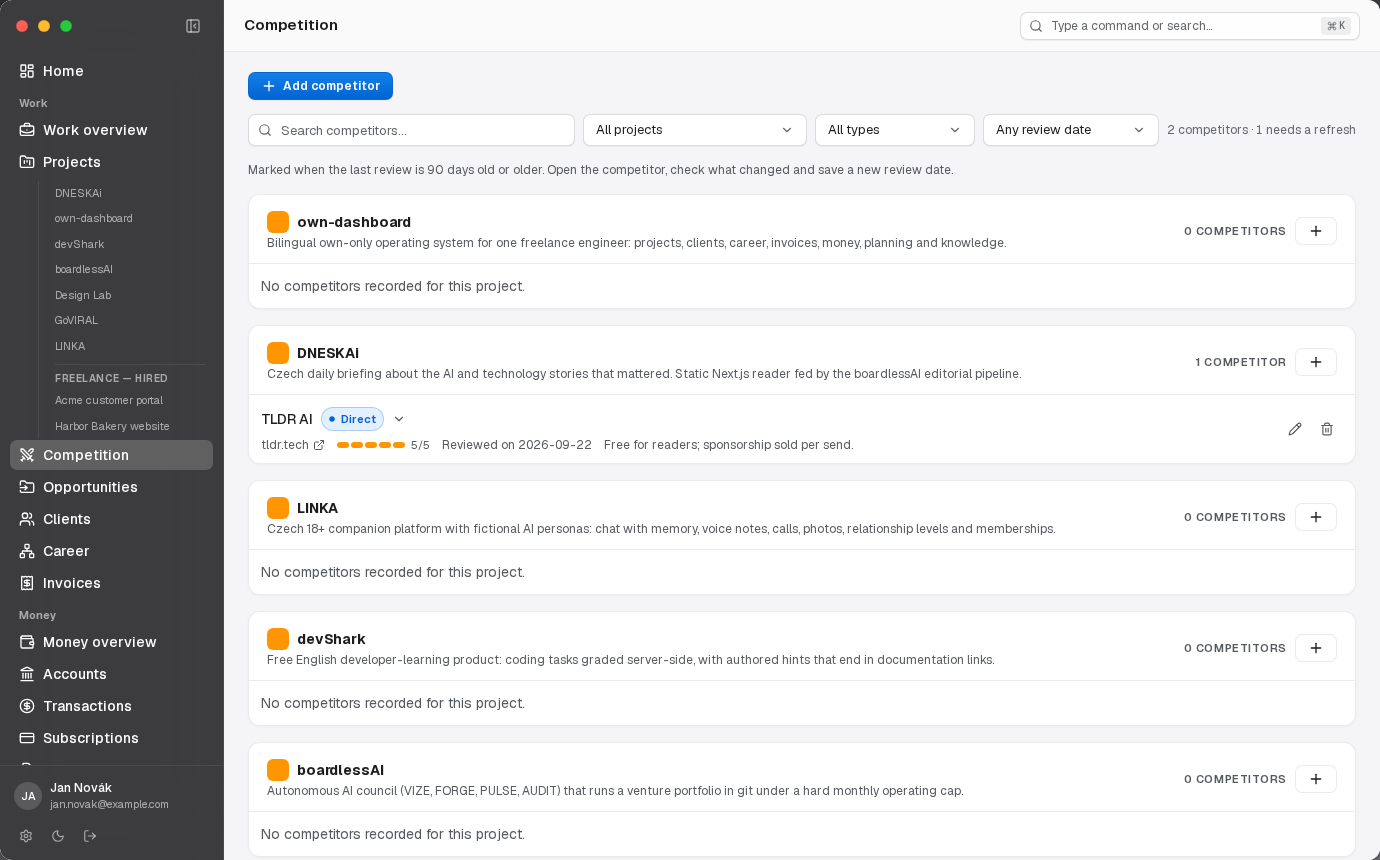
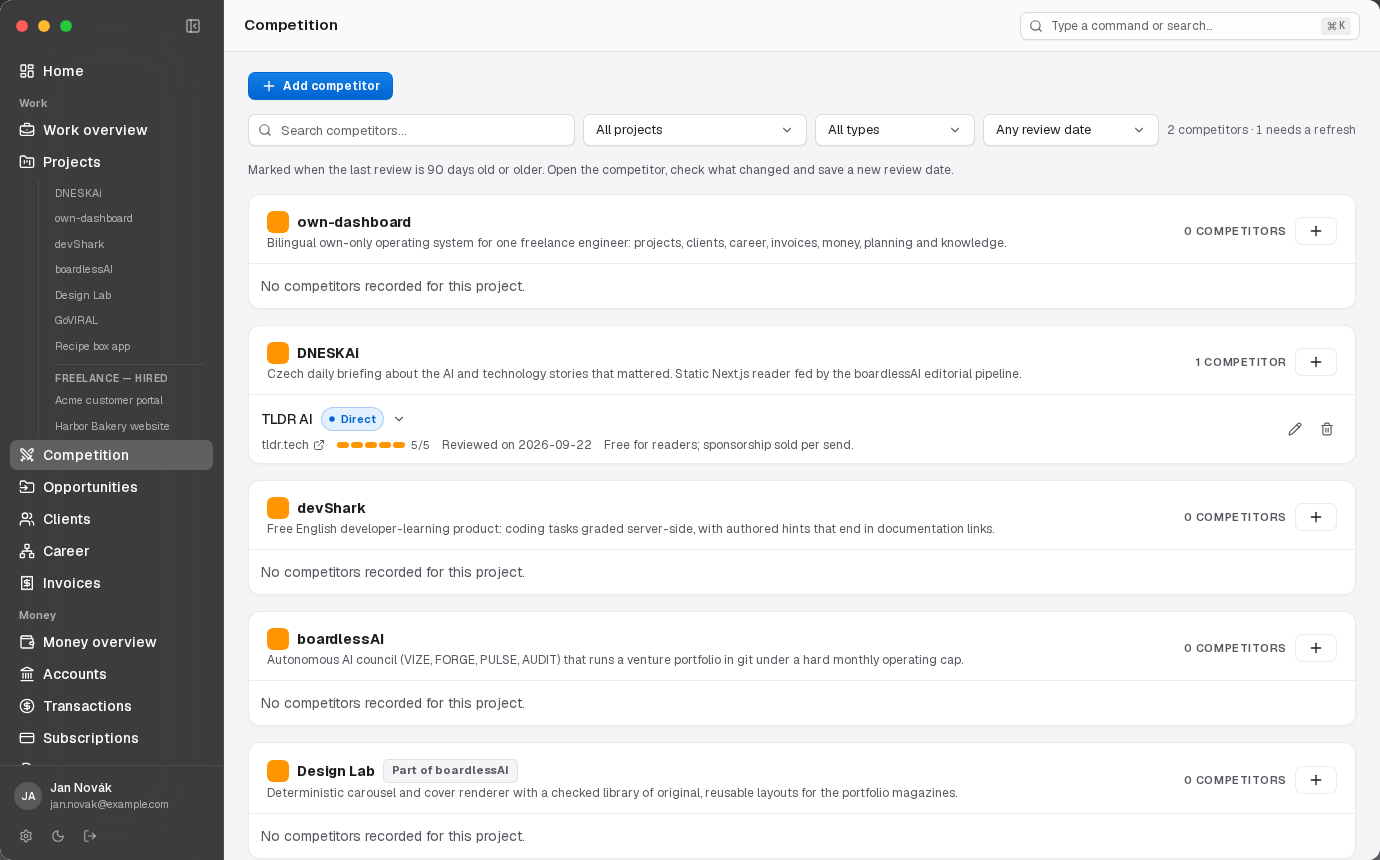
#86: Keep the private LINKA project out of the public tour
The merge added a LINKA fixture carrying the private repository
lukaskourilcz/phone-app and its registry key. /guest (indexed) and
/dev-preview show fixture projects with a registry summary fallback, so
any visitor saw the private repository's name, a link to it, and the
description of an unannounced product. All four changelog captures showed
LINKA in the sidebar, and the Competition capture showed the description.

- The fixture is now "Recipe box app", an invented own project with no
  registry key and no repository. Every fixture project carries its own
  invented summary.
- projectSummary() prefers the project's own summary and, in the
  preview, never falls back to the registry. Projects and the project
  workspace use it.
- portfolio.ts keeps the LINKA entry, which binds the live project row,
  but its description is now "Private product in development." The
  owner's projects.summary row still holds the real text and wins.
  NEEDED.md asks whether the name and repository may stay in source.
- The four captures were retaken from /dev-preview
  (CHANGELOG_CAPTURE=1, desktop) and the projects alt text updated in
  changelog.ts and CHANGELOG.md.
- The guest page and fixture comments say what is invented and what is
  real.

The old description remains in the history of claude/elegant-cori-h9cdgb,
which is already on origin, and in this branch's merge commit.

Claude-Session: https://claude.ai/code/session_01JhZhF9uAeUtFEQkvY3LE2b

diff --git a/src/components/projects/project-workspace.tsx b/src/components/projects/project-workspace.tsx
@@ -31,7 +31,7 @@ import { EntityBadge, StatusBadge } from "@/components/ui/status-badge";
 import { useDict, useLang } from "@/lib/i18n";
 import { convert } from "@/lib/fx";
 import { projectSubscriptionShares, sharesMonthly } from "@/lib/dev-finance";
-import { childProjects, portfolioEntryFor } from "@/lib/portfolio";
+import { childProjects, portfolioEntryFor, projectSummary } from "@/lib/portfolio";
 import { computeTotals } from "@/lib/invoices";
 import { assessProjectHealth } from "@/lib/project-health";
 import { taskBelongsToProject } from "@/lib/project-match";
@@ -105,6 +105,8 @@ type Props = {
   displayCurrency: string;
   repositoryIntegrationEnabled: boolean;
   onBackToProjects: () => void;
+  /** The public tour: registry descriptions are not shown there. */
+  isPreview?: boolean;
 };
 
 function invoiceTotal(invoice: Invoice, items: InvoiceItem[]): number {
@@ -194,7 +196,7 @@ export function ProjectWorkspace(props: Props) {
     <PageHeader
       className="mac-project-header"
       title={project.name}
-      description={project.summary || registryEntry?.summary[lang] || p.projectWorkspace}
+      description={projectSummary(project, lang, { preview: props.isPreview }) || p.projectWorkspace}
       eyebrow={parentProject ? t.portfolio.subsectionOf(parentProject.name) : organization?.name ?? (registryEntry ? t.portfolio.coreProject : p.projectWorkspace)}
       action={<div className="flex flex-wrap items-center gap-2"><StatusBadge value={project.status ?? (project.is_active ? "active" : "archived")} />{project.dev_url && <Button size="sm" variant="outline" asChild><a href={project.dev_url} target="_blank" rel="noreferrer"><ExternalLink />{p.developmentProject}</a></Button>}{project.url && <Button size="sm" variant="outline" asChild><a href={project.url} target="_blank" rel="noreferrer"><ExternalLink />{p.externalProject}</a></Button>}</div>}
     />
@@ -213,7 +215,7 @@ export function ProjectWorkspace(props: Props) {
         <Card><CardHeader><CardTitle>{p.projectSummary}</CardTitle></CardHeader><CardContent className="space-y-3 text-sm"><p>{project.summary || project.notes || p.noRelatedRecords}</p><div><SectionLabel>{p.linkedOrganization}</SectionLabel><p className="mt-1">{organization ? <EntityBadge>{organization.name}</EntityBadge> : p.noLinkedOrganization}</p></div>{projectDates.length > 0 && <div><SectionLabel>{t.nav.sections.dates}</SectionLabel><ul className="mt-1 divide-y divide-border">{projectDates.slice(0, 5).map((date) => <li key={date.id} className="flex justify-between gap-3 py-1.5"><span>{date.title}</span><span className="tabular text-foreground-muted">{date.the_date}</span></li>)}</ul></div>}</CardContent></Card>
         <Card><CardHeader><CardTitle>{p.attention}</CardTitle></CardHeader><CardContent>{health.reasons.length === 0 ? <p className="text-sm text-foreground-muted">{p.attentionEmpty}</p> : <ul className="space-y-2 text-sm">{health.reasons.map((reason) => <li key={reason} className="rounded-md border border-border p-2">{localHealthReason(reason)}</li>)}</ul>}</CardContent></Card>
         {project.repo_full_name && <ProjectTraffic repoFullName={project.repo_full_name} repoId={project.repo_id ?? null} />}
-        {subsections.length > 0 && <Card><CardHeader><CardTitle>{t.portfolio.subsection}</CardTitle></CardHeader><CardContent><ul className="divide-y divide-border">{subsections.map((child) => <li key={child.id} className="flex items-center justify-between gap-3 py-2"><button type="button" onClick={() => props.onOpenProject(child)} className="focus-ring rounded text-sm font-medium hover:underline">{child.name}</button><span className="text-xs text-foreground-muted">{portfolioEntryFor(child)?.summary[lang]}</span></li>)}</ul></CardContent></Card>}
+        {subsections.length > 0 && <Card><CardHeader><CardTitle>{t.portfolio.subsection}</CardTitle></CardHeader><CardContent><ul className="divide-y divide-border">{subsections.map((child) => <li key={child.id} className="flex items-center justify-between gap-3 py-2"><button type="button" onClick={() => props.onOpenProject(child)} className="focus-ring rounded text-sm font-medium hover:underline">{child.name}</button><span className="text-xs text-foreground-muted">{projectSummary(child, lang, { preview: props.isPreview })}</span></li>)}</ul></CardContent></Card>}
       </div>
       <ProjectLinksSection project={project} aiLinks={props.aiLinks} aiCategories={props.aiCategories} projectLinks={props.projectLinks} setProjectLinks={props.setProjectLinks} />
     </div>}

diff --git a/src/lib/demo/fixtures.ts b/src/lib/demo/fixtures.ts
@@ -7,8 +7,11 @@
  * Every person, company, address and bank detail here is invented: "Jan Novák"
  * and `example.com` are placeholders, "Acme s.r.o." is a stand-in client, and
  * the IBAN is the documentation example value. The repository names are public
- * GitHub repositories. Nothing in this file is owner data, which is what makes
- * `/guest` safe to serve publicly — keep it that way when editing.
+ * GitHub repositories; a private repository, or the registry entry of a
+ * product the owner has not announced, never belongs here. Each project
+ * carries its own invented summary because the preview does not fall back to
+ * the portfolio registry. Nothing in this file is owner data, which is what
+ * makes `/guest` safe to serve publicly — keep it that way when editing.
  */
 import type {
   Account,
@@ -185,6 +188,7 @@ export const projects: Project[] = [
     id: "proj-dneskai",
     user_id: "u1",
     name: "DNESKAi",
+    summary: "Daily reader for the AI and technology news that mattered.",
     slug: "dneskai",
     previous_slugs: ["aifirst"],
     repo_full_name: "lukaskourilcz/aifirst",
@@ -204,6 +208,7 @@ export const projects: Project[] = [
     id: "proj-dashboard",
     user_id: "u1",
     name: "own-dashboard",
+    summary: "The operating dashboard this tour shows.",
     slug: "own-dashboard",
     repo_full_name: "lukaskourilcz/own-dashboard",
     repo_id: 1001,
@@ -222,6 +227,7 @@ export const projects: Project[] = [
     id: "proj-devshark",
     user_id: "u1",
     name: "devShark",
+    summary: "Developer-learning product with coding tasks graded on the server.",
     slug: "devshark",
     previous_slugs: ["react-express-app"],
     repo_full_name: "lukaskourilcz/react-express-app",
@@ -241,6 +247,7 @@ export const projects: Project[] = [
     id: "proj-boardlessai",
     user_id: "u1",
     name: "boardlessAI",
+    summary: "Agent council that runs a small venture portfolio in git.",
     slug: "boardlessai",
     previous_slugs: ["quorum"],
     repo_full_name: "lukaskourilcz/quorum",
@@ -261,6 +268,7 @@ export const projects: Project[] = [
     id: "proj-design-lab",
     user_id: "u1",
     name: "Design Lab",
+    summary: "Layout renderer for the portfolio magazines' carousels and covers.",
     slug: "design-lab",
     repo_full_name: null,
     engagement: "own",
@@ -278,6 +286,7 @@ export const projects: Project[] = [
     id: "proj-goviral",
     user_id: "u1",
     name: "GoVIRAL",
+    summary: "Weekly trend brief for the portfolio's ventures.",
     slug: "goviral",
     repo_full_name: null,
     engagement: "own",
@@ -291,14 +300,16 @@ export const projects: Project[] = [
     created_at: "2025-01-01T00:00:00Z",
     updated_at: "2025-01-01T00:00:00Z",
   },
+  // An invented own product with no registry key and no repository: the
+  // public tour shows no project the owner has not published.
   {
-    id: "proj-phone",
+    id: "proj-recipe-box",
     user_id: "u1",
-    name: "LINKA",
-    slug: "phone-app",
-    repo_full_name: "lukaskourilcz/phone-app",
+    name: "Recipe box app",
+    slug: "recipe-box",
+    repo_full_name: null,
     engagement: "own",
-    portfolio_key: "phone-app",
+    summary: "Offline recipe collection with weekly shopping lists.",
     url: null,
     notes: "",
     color: null,
@@ -312,6 +323,7 @@ export const projects: Project[] = [
     id: "proj-acme-portal",
     user_id: "u1",
     name: "Acme customer portal",
+    summary: "Customer portal for Acme's service team.",
     slug: "acme-portal",
     repo_full_name: null,
     engagement: "client",
@@ -328,6 +340,7 @@ export const projects: Project[] = [
     id: "proj-harbor-bakery",
     user_id: "u1",
     name: "Harbor Bakery website",
+    summary: "Ordering website for a neighbourhood bakery.",
     slug: "harbor-bakery",
     repo_full_name: null,
     engagement: "client",

diff --git a/src/lib/portfolio.ts b/src/lib/portfolio.ts
@@ -64,9 +64,13 @@ export const PORTFOLIO: PortfolioEntry[] = [
     repo: "lukaskourilcz/phone-app",
     category: "products",
     slug: "phone-app",
+    // The repository is private and the product unannounced, so its
+    // description lives only in the owner's own `projects.summary` row, not in
+    // this public source file. NEEDED.md asks the owner whether the entry may
+    // stay here at all.
     summary: {
-      en: "Czech 18+ companion platform with fictional AI personas: chat with memory, voice notes, calls, photos, relationship levels and memberships.",
-      cs: "Česká 18+ platforma s fiktivními AI společnicemi: chat s pamětí, hlasovky, hovory, fotky, vztahové úrovně a členství.",
+      en: "Private product in development.",
+      cs: "Soukromý produkt ve vývoji.",
     },
   },
   {
@@ -152,6 +156,21 @@ export function portfolioEntryFor(
     if (entry) return entry;
   }
   return undefined;
+}
+
+/**
+ * The summary a project shows: its own, else its registry entry's. A public
+ * preview never falls back to the registry, so the guest tour shows only what
+ * its invented fixtures say and never the owner's portfolio descriptions.
+ */
+export function projectSummary(
+  project: Pick<Project, "summary" | "portfolio_key" | "repo_full_name" | "parent_id"> & Partial<Pick<Project, "previous_repo_full_names">>,
+  lang: "en" | "cs",
+  { preview = false }: { preview?: boolean } = {},
+): string | undefined {
+  if (project.summary) return project.summary;
+  if (preview) return undefined;
+  return portfolioEntryFor(project)?.summary[lang];
 }
 
 /** A project the registry knows: one of the daily projects or a venture subsection. */

diff --git a/tests/lib/demo-fixtures.test.ts b/tests/lib/demo-fixtures.test.ts
@@ -1,0 +1,29 @@
+import { describe, expect, it } from "vitest";
+import { projects } from "@/lib/demo/fixtures";
+import { portfolioEntryFor, projectSummary } from "@/lib/portfolio";
+
+// /guest serves these fixtures to anyone, indexed. They may name the owner's
+// public repositories, never a private one, and never show registry text.
+describe("demo fixtures behind the public tour", () => {
+  it("gives every project its own summary, so the tour never reads the registry", () => {
+    for (const project of projects) {
+      expect(project.summary, project.name).toBeTruthy();
+      expect(projectSummary(project, "en", { preview: true })).toBe(project.summary);
+      expect(projectSummary(project, "cs", { preview: true })).toBe(project.summary);
+    }
+  });
+
+  it("does not list the private phone-app repository or its registry entry", () => {
+    for (const project of projects) {
+      expect(project.portfolio_key ?? null, project.name).not.toBe("phone-app");
+      expect(project.repo_full_name ?? "", project.name).not.toContain("phone-app");
+      expect(portfolioEntryFor(project)?.key, project.name).not.toBe("phone-app");
+    }
+  });
+
+  it("falls back to the registry outside the preview only", () => {
+    const bare = { summary: undefined, portfolio_key: "aifirst", repo_full_name: null, parent_id: null };
+    expect(projectSummary(bare, "en", { preview: true })).toBeUndefined();
+    expect(projectSummary(bare, "en")).toMatch(/AI and technology/);
+  });
+});

diff --git a/src/components/panels/projects-panel.tsx b/src/components/panels/projects-panel.tsx
@@ -80,7 +80,7 @@ import {
   unresolvedRepositoryProjects,
   type ProjectRepoUpdate,
 } from "@/lib/project-match";
-import { childProjects, planPortfolioSync, portfolioEntryFor } from "@/lib/portfolio";
+import { childProjects, planPortfolioSync, projectSummary } from "@/lib/portfolio";
 import { projectSubscriptionShares, sharesMonthly } from "@/lib/dev-finance";
 import { assessProjectHealth, type ProjectHealth } from "@/lib/project-health";
 import {
@@ -244,6 +244,7 @@ export function ProjectsPanel(props: ProjectsPanelProps) {
       displayCurrency={props.displayCurrency}
       repositoryIntegrationEnabled={props.syncRepositories !== false}
       onBackToProjects={props.onBackToProjects}
+      isPreview={props.isPreview}
     />;
   }
   return <ProjectsListPanel {...props} />;
@@ -1071,7 +1072,7 @@ function ProjectsListPanel({
                   key={p.id}
                   project={p}
                   subsection={!!p.parent_id && projectIds.has(p.parent_id)}
-                  summary={p.summary || portfolioEntryFor(p)?.summary[lang]}
+                  summary={projectSummary(p, lang, { preview: isPreview })}
                   monthlyCost={monthlyOf(p)}
                   displayCurrency={displayCurrency}
                   synced={isSynced(p)}

diff --git a/src/lib/changelog.ts b/src/lib/changelog.ts
@@ -66,7 +66,7 @@ export const CHANGELOG: ChangelogEntry[] = [
         media: {
           path: "media/changelog/2026-09-25-projects.png",
           alt:
-            "Projects: the sidebar lists DNESKAi, own-dashboard, devShark, boardlessAI, Design Lab, GoVIRAL and LINKA, then a \"Freelance — hired\" divider above Acme customer portal and Harbor Bakery website; the page shows the monthly cost donut and a table that opens with DNESKAi, own-dashboard, devShark and boardlessAI, each with its registry summary and repository.",
+            "Projects: the sidebar lists DNESKAi, own-dashboard, devShark, boardlessAI, Design Lab, GoVIRAL and Recipe box app, then a \"Freelance — hired\" divider above Acme customer portal and Harbor Bakery website; the page shows the monthly cost donut and a table that opens with DNESKAi, own-dashboard, devShark and boardlessAI, each with its summary and repository.",
         },
       },
       {

diff --git a/e2e/dashboard.spec.ts b/e2e/dashboard.spec.ts
@@ -222,7 +222,7 @@ test.describe("dashboard sections", () => {
       "boardlessAI",
       "Design Lab",
       "GoVIRAL",
-      "LINKA",
+      "Recipe box app",
       "Acme customer portal",
       "Harbor Bakery website",
     ]);
@@ -231,7 +231,7 @@ test.describe("dashboard sections", () => {
     // the last own project and the first freelance project.
     const rows = await table.locator("tbody tr").allTextContents();
     const divider = rows.findIndex((text) => text.includes("Freelance — hired"));
-    expect(rows[divider - 1]).toContain("LINKA");
+    expect(rows[divider - 1]).toContain("Recipe box app");
     expect(rows[divider + 1]).toContain("Acme customer portal");
     // The wide table scrolls inside its card; the page itself never widens.
     expect(await page.evaluate(() => document.documentElement.scrollWidth - document.documentElement.clientWidth)).toBeLessThanOrEqual(1);

diff --git a/src/app/guest/page.tsx b/src/app/guest/page.tsx
@@ -13,9 +13,11 @@ import { brandConfig } from "@/lib/brand";
  * session and without reaching any owner data. The middleware exempts this
  * path from the login redirect.
  *
- * Everything the page shows is invented (see `src/lib/demo/fixtures.ts`).
- * Writes are not wired: `DemoDashboard` passes `isPreview`, and own-only RLS
- * would reject an anonymous write regardless.
+ * Every record the page shows is invented (see `src/lib/demo/fixtures.ts`).
+ * Some project names and repositories are the owner's public ones; their
+ * summaries come from the fixtures, never from the portfolio registry, and no
+ * private repository appears. Writes are not wired: `DemoDashboard` passes
+ * `isPreview`, and own-only RLS would reject an anonymous write regardless.
  *
  * This is also the surface recorded for the portfolio thumbnail, which is why
  * it must stay logged-out reachable. See

diff --git a/NEEDED.md b/NEEDED.md
@@ -15,6 +15,7 @@ Owner parts, in this order:
 - [x] **Decide the two unmerged branches whose schema is already live** — settled 2026-09-25. `claude/elegant-cori-h9cdgb` (#64–#73) is merged: `engagement` stays the one own-versus-client field and `projects.scope` is dropped, the Works section folded into Projects behind the freelance divider, and its migration files renamed to the versions production recorded. From `claude/busy-carson-lc5ise` only the migration file came across; its empty `ai_link_projects` and unused `projects.video_url` are dropped by a guarded migration, and the branch is to be archived as a tag. [imp:3] [owner:me] [time:45m] [kind:decision]
 - [ ] **Apply the four integration migrations** — `20260925200000_fix_project_parent_policies.sql` (the `projects` insert and update policies compared a parent with itself, so no row with a parent could be saved), `20260925200100_project_engagement_replaces_scope.sql` (drops `projects.scope`), `20260925200200_project_competition_tab.sql` (lets Settings hide the Competition tab) and `20260925200300_drop_link_project_references.sql` (drops `ai_link_projects` and `projects.video_url`, and refuses if either holds data). Run them with `npx supabase db push --linked` after the history repair above, so each is recorded under its file version. `docs/migration-guide.md` has the checks. [imp:4] [owner:me] [time:20m] [kind:deploy]
 - [ ] **Apply `20260925210000_restrict_purge_old_cron_runs.sql`** — `anon` and `authenticated` can run `purge_old_cron_runs()`, a `SECURITY DEFINER` delete, through `/rest/v1/rpc` (security advisor lints 0028 and 0029). The migration leaves it to `service_role` and the scheduler. Push it with `npx supabase db push --linked` after the four integration migrations; `docs/migration-guide.md` has the checks. [imp:3] [owner:me] [time:10m] [kind:deploy]
+- [ ] **Decide whether phone-app may appear in this public repository** — the `lukaskourilcz/phone-app` repository is private, yet `src/lib/portfolio.ts` names it (LINKA, key `phone-app`) so its project row stays bound. Its description there is now "Private product in development."; the real one lives only in your own `projects.summary`, which Projects shows first. The guest tour no longer lists LINKA. The earlier description is still in the history of the pushed branch `claude/elegant-cori-h9cdgb`, and merging this branch carries that commit into `main`'s history. Say whether the name and repository may stay in source, or whether the entry should move out. [imp:3] [owner:me] [time:5m] [kind:decision]
 - [ ] **Decide whether umyjemefasadu is client work** — the 2026-09-16 import marked it `work`, the kickoff left it `own`, and `projects.engagement` now decides. It is inactive, so it shows nowhere today; set Engagement to Freelance (hired) in the project form if it was a client job. [imp:1] [owner:me] [time:5m] [kind:decision]
 - [ ] **Decide what Opportunities shows before the check** — it now shows only when it was last loaded in this browser session and the opportunity and platform counts from then. Say if stored counts should be visible without pressing the button. [imp:2] [owner:me] [time:5m] [kind:decision]
 

diff --git a/CHANGELOG.md b/CHANGELOG.md
@@ -15,7 +15,7 @@ placeholder or generated screenshot.
 
 - **Own and freelance projects** — Projects lists the owner's own products first and freelance client work behind a "Freelance — hired" divider, from one field, `projects.engagement`. DNESKAi, devShark and boardlessAI carry their new names while their earlier slugs keep old links working, and a GitHub repository is matched by its id, so a rename updates the project instead of adding a second one.
 
-  ![Projects: the sidebar lists DNESKAi, own-dashboard, devShark, boardlessAI, Design Lab, GoVIRAL and LINKA, then a "Freelance — hired" divider above Acme customer portal and Harbor Bakery website; the page shows the monthly cost donut and a table that opens with DNESKAi, own-dashboard, devShark and boardlessAI, each with its registry summary and repository.](media/changelog/2026-09-25-projects.png)
+  ![Projects: the sidebar lists DNESKAi, own-dashboard, devShark, boardlessAI, Design Lab, GoVIRAL and Recipe box app, then a "Freelance — hired" divider above Acme customer portal and Harbor Bakery website; the page shows the monthly cost donut and a table that opens with DNESKAi, own-dashboard, devShark and boardlessAI, each with its summary and repository.](media/changelog/2026-09-25-projects.png)
 
 - **Portfolio registry and venture subsections** — The daily projects are materialized from a code-level registry, so a repository shows up in Projects even when the GitHub allow-list predates it. Design Lab and GoVIRAL are rows of their own under boardlessAI, each with its own workspace, and the registry never renames a project or changes its engagement.
 
